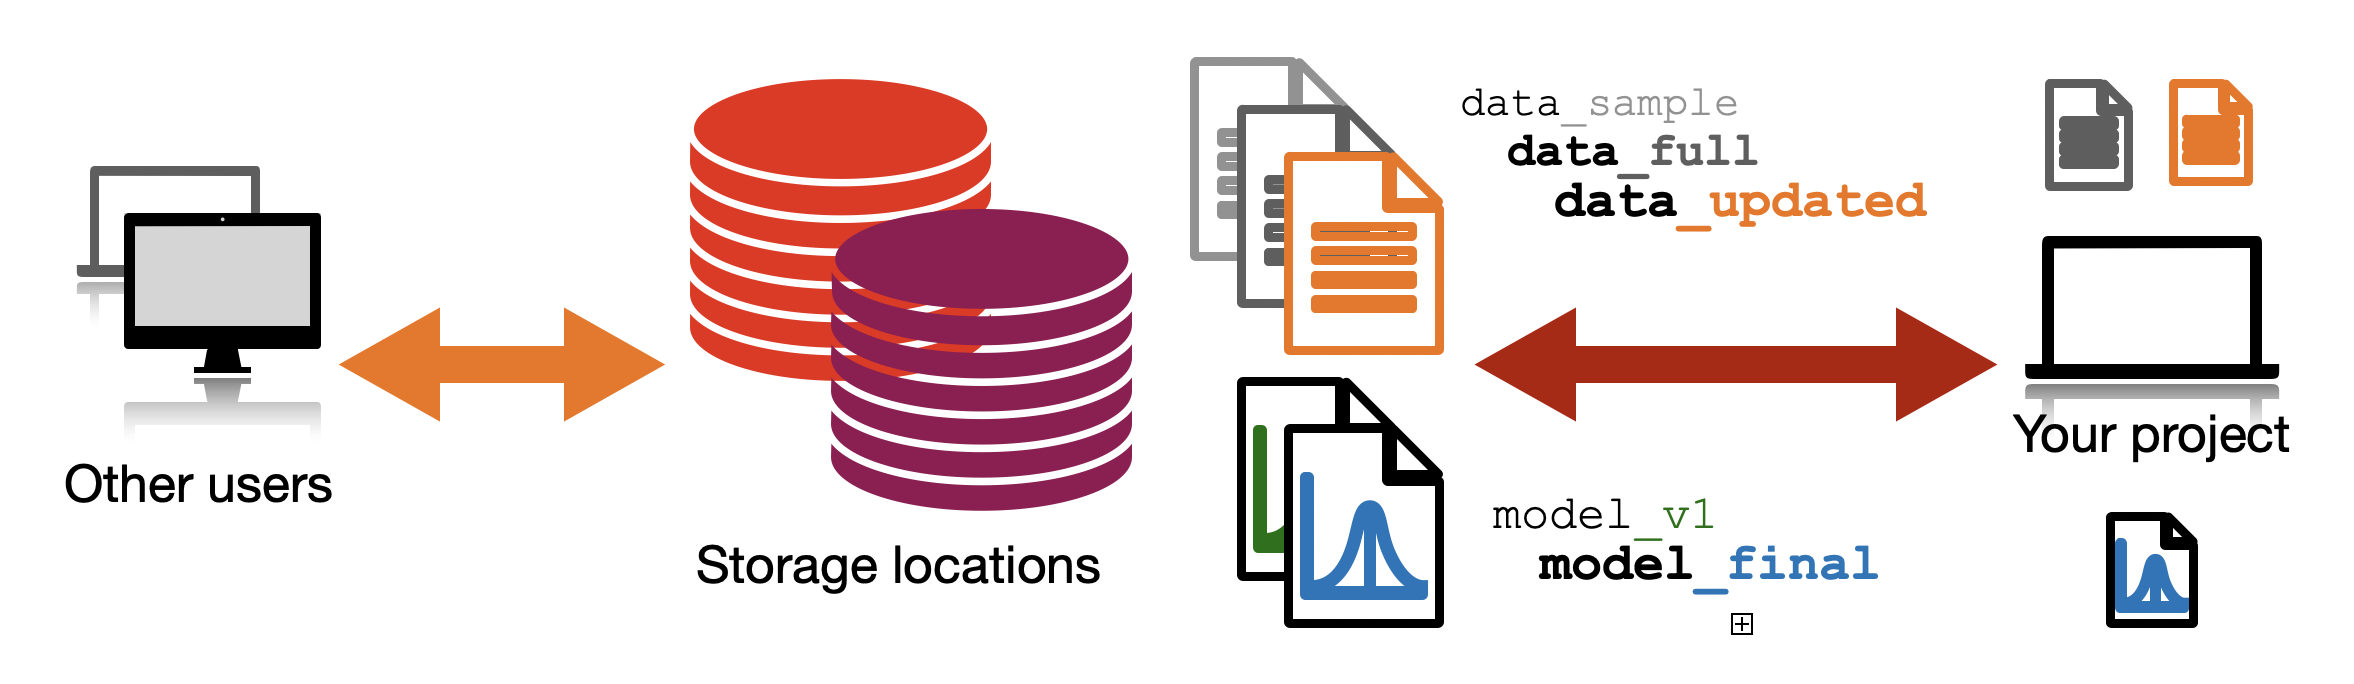
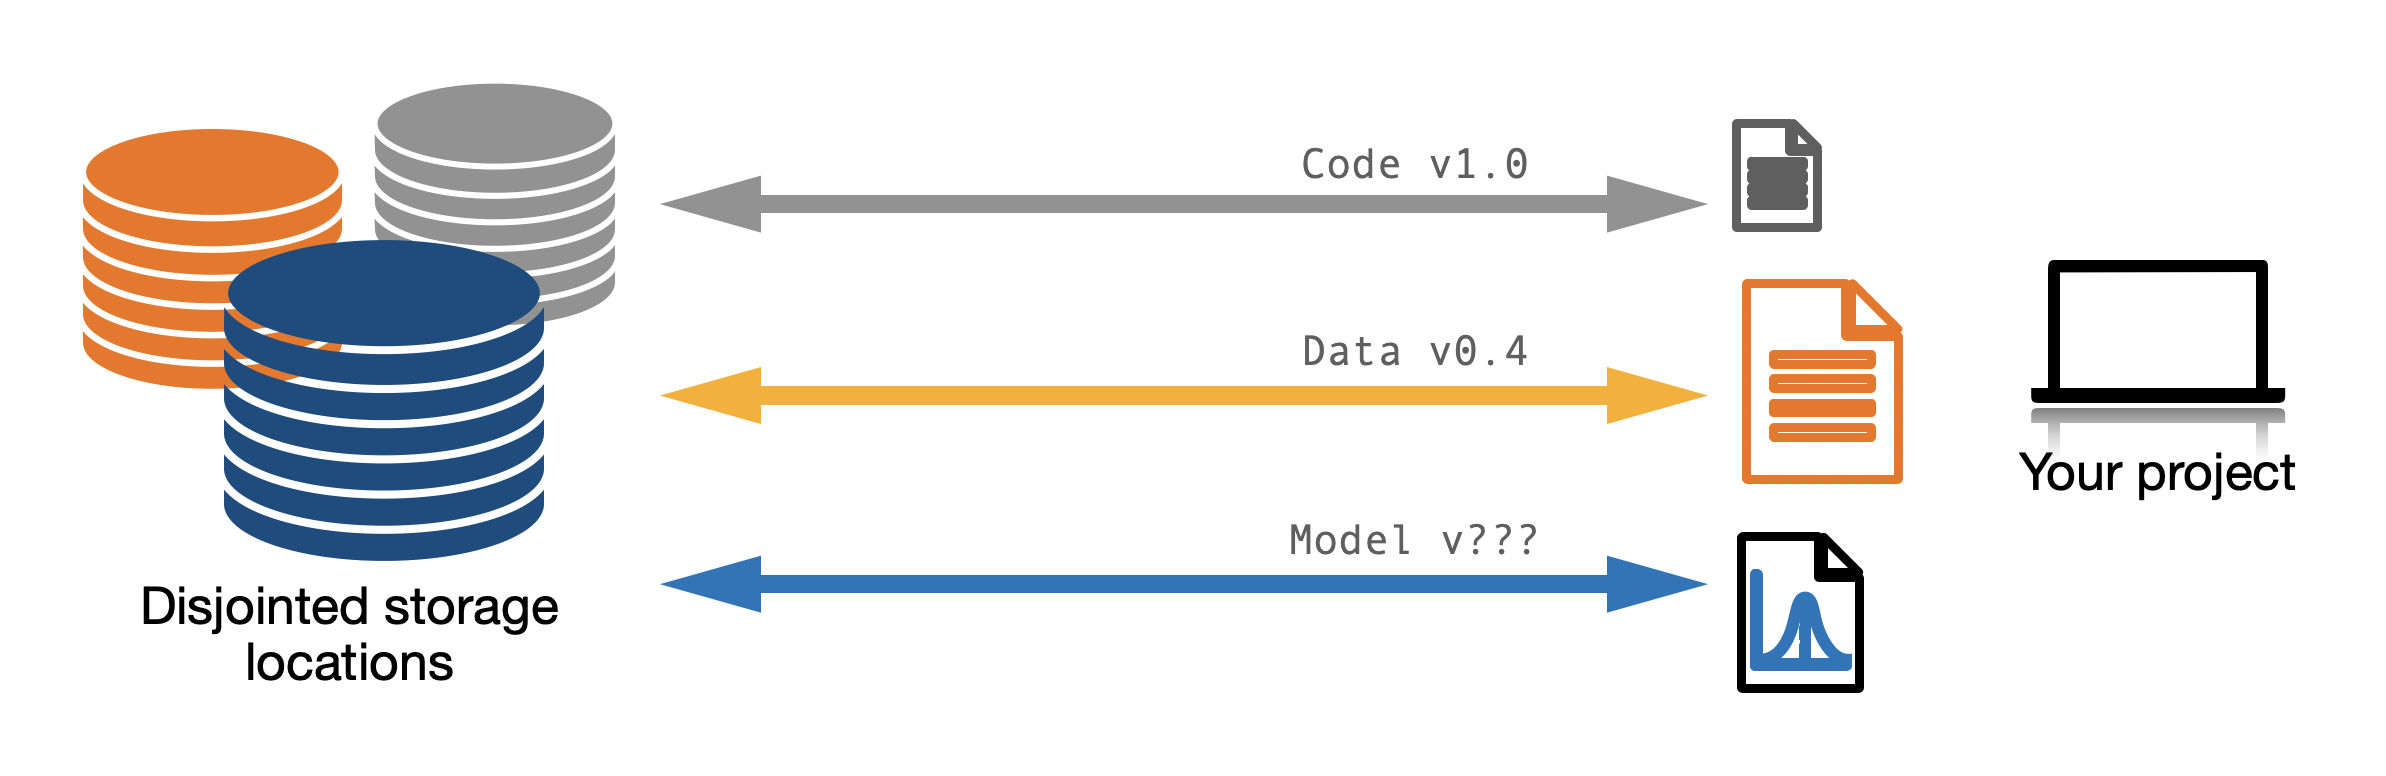
guide: update Data Mgmt figs

diff --git a/content/docs/user-guide/data-management/index.md b/content/docs/user-guide/data-management/index.md
@@ -5,20 +5,20 @@
 -->
 
 Where and how to store data and model files is one of the first decisions your
-team will have to make. Typically, files end up scattered throughout multiple
-buckets. Everyone can read and write which is not secure. Duplicated content is
-hard to find, so outdated datasets overlap with the latest version. You start
-formatting folder names with dates, but others still can't reproduce your
-results...
+team will have to make. But as the project needs grow and change, files may end
+up scattered throughout multiple buckets. Everyone can read and write, which is
+error-prone and not secure. Duplicated content is hard to prevent, so outdated
+datasets overlap with the latest version. You start formatting folder names with
+dates, but others still can't reproduce your results...
 
-![Direct storage access](/img/manual_data_management.png) _Managing data
-manually does not scale and quickly becomes a consuming job._
+![Direct storage access](/img/manual_data_management.png) _Managing code, data,
+and models manually does not scale and quickly becomes a consuming job._
 
-DVC gives you a structure that lets you take control of your existing [storage
-platforms]. It provides visibility over all your data and helps secure their
-access.
+DVC provides a structure that lets you take control of your existing [storage
+platforms]. It gives visibility over all your data and helps secure its access.
 
-![DVC data access](/img/dvc_managed_storage.png) _DVC's approach_
+![DVC data access](/img/dvc_managed_storage.png) _DVC centralizes file and
+directory management for you._
 
 Your storage is managed from an immutable <abbr>repository</abbr>, implementing
 append-only data stores. Content changes can be [properly versioned],
